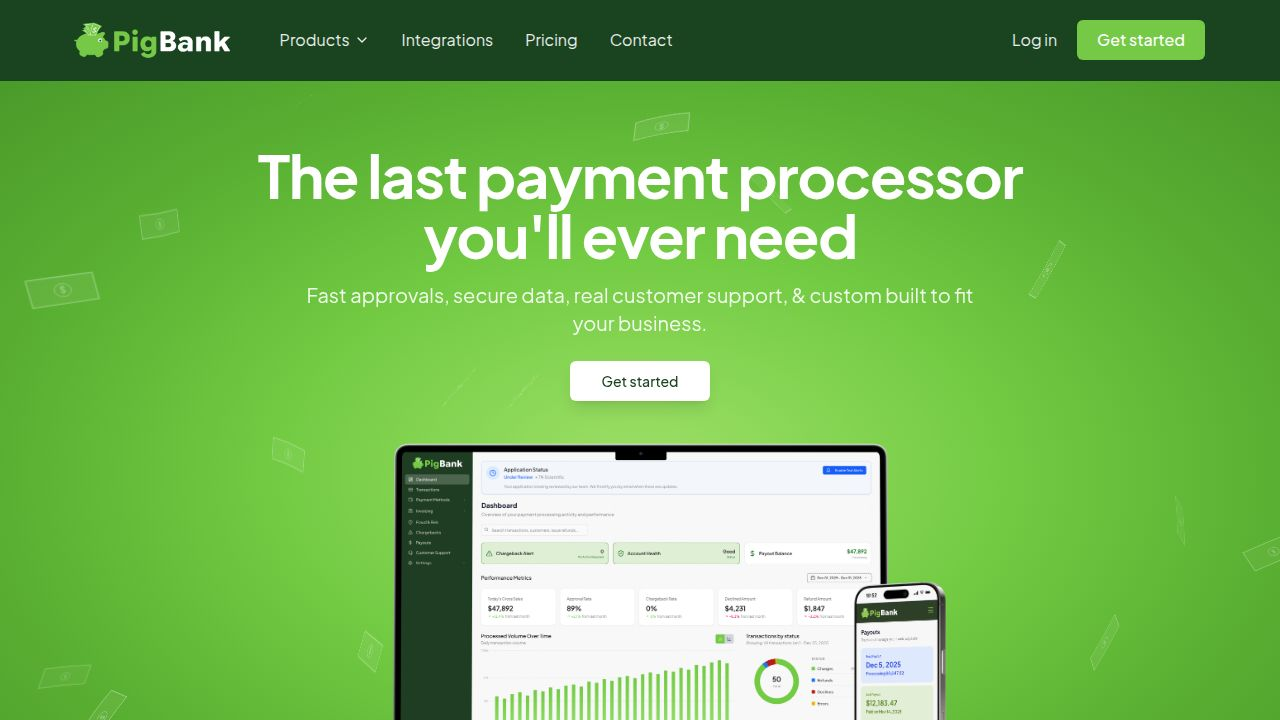
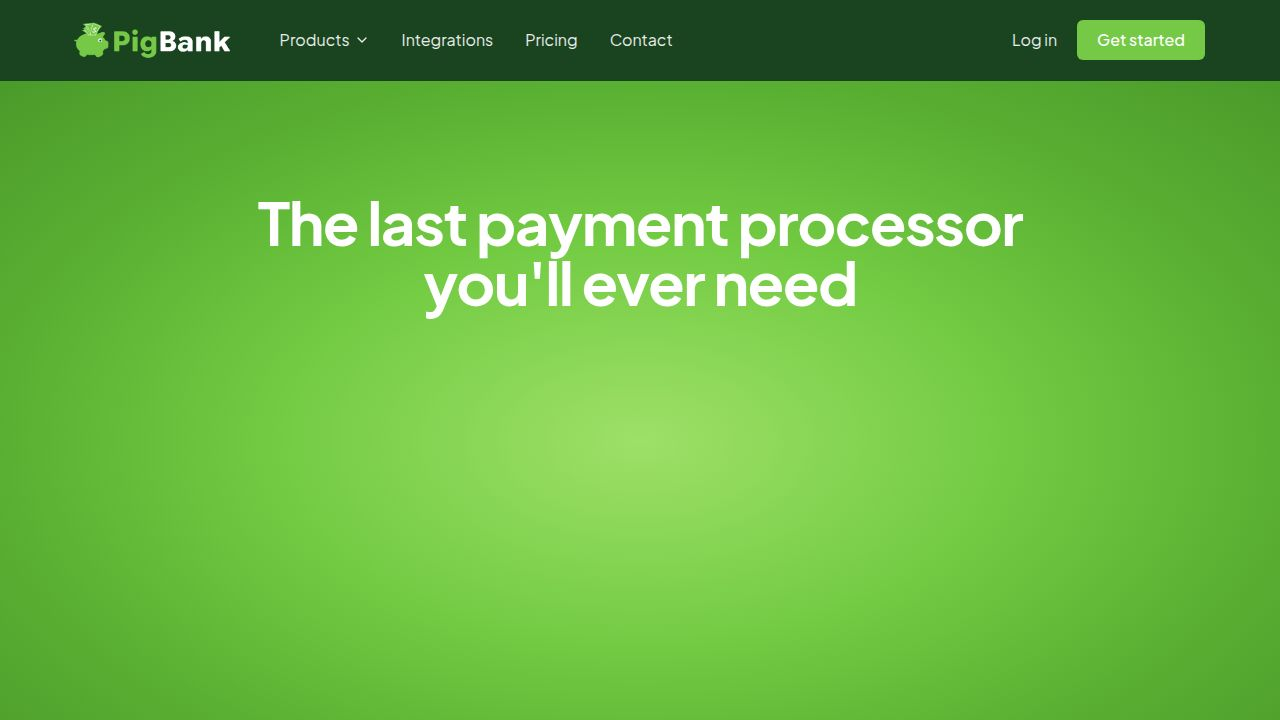
Animate landing page headline and adjust scrolling behavior
Implement scroll-based animation for the landing page headline using `animationProgress`, including scroll-locking and keyboard/touch event handling.

Replit-Commit-Author: Agent
Replit-Commit-Session-Id: f48d7d61-b6d8-428e-96cd-070270167123
Replit-Commit-Checkpoint-Type: intermediate_checkpoint
Replit-Commit-Event-Id: b1916d01-c071-48a3-9042-e67ba427db4a
Replit-Commit-Screenshot-Url: https://storage.googleapis.com/screenshot-production-us-central1/ee567252-c1f1-45c7-bba9-ef8d3212ce6e/f48d7d61-b6d8-428e-96cd-070270167123/nOG6Mpw
Replit-Helium-Checkpoint-Created: true

diff --git a/client/src/pages/Landing.tsx b/client/src/pages/Landing.tsx
@@ -317,10 +317,96 @@ export default function Landing() {
   const lastScrollY = useRef(0);
   const { setTheme } = useTheme();
   
+  const [animationProgress, setAnimationProgress] = useState(0);
+  const [animationComplete, setAnimationComplete] = useState(false);
+  const heroRef = useRef<HTMLDivElement>(null);
+  
   // Force light theme on landing page
   useEffect(() => {
     setTheme("light");
   }, [setTheme]);
+
+  // Scroll-lock: prevent page scrolling during animation
+  useEffect(() => {
+    if (!animationComplete) {
+      document.body.style.overflow = 'hidden';
+    } else {
+      document.body.style.overflow = '';
+    }
+    return () => {
+      document.body.style.overflow = '';
+    };
+  }, [animationComplete]);
+
+  // Scroll-lock animation handler
+  useEffect(() => {
+    if (animationComplete) return;
+
+    const handleWheel = (e: WheelEvent) => {
+      e.preventDefault();
+      if (e.deltaY > 0) {
+        setAnimationProgress(prev => {
+          const newProgress = Math.min(1, prev + e.deltaY * 0.003);
+          if (newProgress >= 1) {
+            setAnimationComplete(true);
+          }
+          return newProgress;
+        });
+      } else if (e.deltaY < 0 && animationProgress > 0) {
+        setAnimationProgress(prev => Math.max(0, prev + e.deltaY * 0.003));
+      }
+    };
+
+    const handleKeyDown = (e: KeyboardEvent) => {
+      const scrollKeys = ['ArrowDown', 'ArrowUp', 'PageDown', 'PageUp', 'Space', ' '];
+      if (scrollKeys.includes(e.key)) {
+        e.preventDefault();
+        const delta = ['ArrowDown', 'PageDown', 'Space', ' '].includes(e.key) ? 50 : -50;
+        setAnimationProgress(prev => {
+          const newProgress = Math.min(1, Math.max(0, prev + delta * 0.003));
+          if (newProgress >= 1) {
+            setAnimationComplete(true);
+          }
+          return newProgress;
+        });
+      }
+    };
+
+    const handleTouchStart = (e: TouchEvent) => {
+      (window as any).lastTouchY = e.touches[0].clientY;
+    };
+
+    const handleTouchMove = (e: TouchEvent) => {
+      e.preventDefault();
+      const lastTouchY = (window as any).lastTouchY || e.touches[0].clientY;
+      const deltaY = lastTouchY - e.touches[0].clientY;
+      (window as any).lastTouchY = e.touches[0].clientY;
+      
+      if (deltaY > 0) {
+        setAnimationProgress(prev => {
+          const newProgress = Math.min(1, prev + deltaY * 0.005);
+          if (newProgress >= 1) {
+            setAnimationComplete(true);
+          }
+          return newProgress;
+        });
+      } else if (deltaY < 0 && animationProgress > 0) {
+        setAnimationProgress(prev => Math.max(0, prev + deltaY * 0.005));
+      }
+    };
+
+    window.addEventListener('wheel', handleWheel, { passive: false });
+    window.addEventListener('keydown', handleKeyDown);
+    window.addEventListener('touchstart', handleTouchStart, { passive: true });
+    window.addEventListener('touchmove', handleTouchMove, { passive: false });
+
+    return () => {
+      window.removeEventListener('wheel', handleWheel);
+      window.removeEventListener('keydown', handleKeyDown);
+      window.removeEventListener('touchstart', handleTouchStart);
+      window.removeEventListener('touchmove', handleTouchMove);
+    };
+  }, [animationComplete, animationProgress]);
 
   useEffect(() => {
     const handleScroll = () => {
@@ -455,38 +541,32 @@ export default function Landing() {
       </header>
       <main>
         <section 
+          ref={heroRef}
           className="overflow-hidden relative"
           style={{
             background: 'radial-gradient(ellipse at center, #9ee068 0%, #73cb43 40%, #5ab032 70%, #4a9a2a 100%)'
           }}
         >
-          <div className="flex min-h-[100vh] md:min-h-[100vh] lg:min-h-[100vh] flex-col justify-center pt-12 md:pt-16 pb-12 md:pb-16">
+          <div className="flex min-h-[100vh] flex-col justify-center items-center">
             <div className="container px-6 md:px-12 max-w-6xl mx-auto relative z-10">
               <div className="flex flex-col items-center text-center gap-6">
-                <div className="space-y-4 max-w-3xl">
-                  <h1 
-                    className="text-4xl md:text-5xl lg:text-6xl font-bold tracking-tight text-white transition-all duration-700 ease-out"
-                    style={{ 
-                      transform: `translateY(${Math.max(0, 120 - scrollY * 0.4)}px)`,
-                      opacity: 1
-                    }}
-                  >
+                <div 
+                  className="space-y-4 max-w-3xl transition-transform duration-300 ease-out"
+                  style={{ 
+                    transform: `translateY(${-animationProgress * 80}px)`
+                  }}
+                >
+                  <h1 className="text-4xl md:text-5xl lg:text-6xl font-bold tracking-tight text-white">
                     The last payment processor you'll ever need
                   </h1>
-                  <p 
-                    className="text-lg md:text-xl text-white/90 max-w-2xl mx-auto transition-all duration-700 ease-out"
-                    style={{ 
-                      opacity: Math.min(1, Math.max(0, (scrollY - 80) / 120)),
-                      transform: `translateY(${Math.max(0, 40 - scrollY * 0.3)}px)`
-                    }}
-                  >
+                  <p className="text-lg md:text-xl text-white/90 max-w-2xl mx-auto">
                     Fast approvals, secure data, real customer support, & custom built to fit your business.
                   </p>
                   <div 
-                    className="flex gap-4 justify-center pt-2 transition-all duration-700 ease-out"
+                    className="flex gap-4 justify-center pt-2 transition-all duration-300 ease-out"
                     style={{ 
-                      opacity: Math.min(1, Math.max(0, (scrollY - 120) / 120)),
-                      transform: `translateY(${Math.max(0, 30 - scrollY * 0.25)}px)`
+                      opacity: Math.min(1, Math.max(0, (animationProgress - 0.3) / 0.3)),
+                      transform: `translateY(${Math.max(0, 20 * (1 - Math.min(1, (animationProgress - 0.3) / 0.3)))}px)`
                     }}
                   >
                     <Button 
@@ -501,16 +581,13 @@ export default function Landing() {
                 </div>
                 
                 <div 
-                  className="relative flex items-center justify-center mt-4 transition-all duration-700 ease-out"
+                  className="relative flex items-center justify-center mt-4 transition-all duration-300 ease-out"
                   style={{ 
-                    opacity: Math.min(1, Math.max(0, (scrollY - 160) / 150)),
-                    transform: `translateY(${Math.max(0, 60 - scrollY * 0.25)}px)`
+                    opacity: Math.min(1, Math.max(0, (animationProgress - 0.5) / 0.4)),
+                    transform: `translateY(${Math.max(0, 60 * (1 - Math.min(1, (animationProgress - 0.5) / 0.4)))}px)`
                   }}
                 >
-                  <div 
-                    className="relative"
-                    style={{ transform: `translateY(${scrollY * 0.015}px)` }}
-                  >
+                  <div className="relative">
                     <div 
                       className="absolute bottom-[-8px] left-[-10%] right-[-10%] h-[30px] rounded-[50%]"
                       style={{ 
